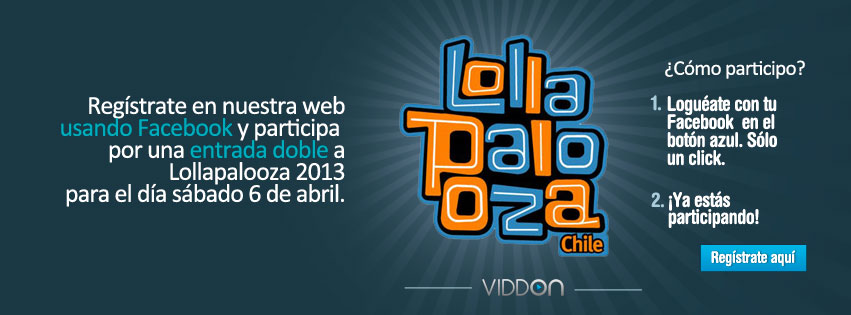
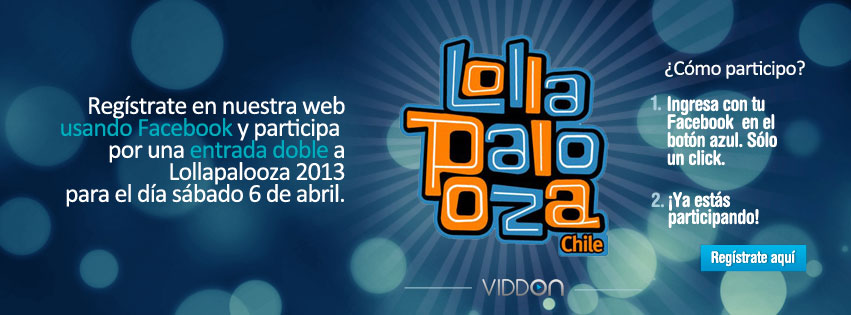
cambios visuales de la barra superior y se cambia la grafica del concurso

diff --git a/style/main.css b/style/main.css
@@ -52,7 +52,7 @@ div.content
 
 /*Estilo del boton superior*/
 #login-button-image {
-	width: 100%;
+	width: 90%;
 	border-radius: 3px;
 }
 
@@ -72,6 +72,8 @@ img.image-logo
 {
 	position: relative;
 	top: -7px;
+	height: 31px !important;
+
 }
 
 

diff --git a/application/views/template.php b/application/views/template.php
@@ -67,12 +67,12 @@
 					</a>
 				</div>
 				<div class="span2 header-text-left">
-					<a href="<?php echo HOME?>/home/what_is" style="margin-left: -55px;" style="color:white;">
+					<a href="<?php echo HOME?>/home/what_is" style="margin-left: -65px;" style="color:white;">
 						Tu Talento, Nuestra Pasi&oacute;n
 					</a>
 				</div>
 				
-				<div class="span4 offset3">
+				<div class="span4 offset4">
 					<?php
 					
 						/*verificacion usuario postulante*/
@@ -113,7 +113,7 @@
 						}
 						else
 						{
-							echo "<div class='span5 offset2'>";
+							echo "<div class='span5'>";
 							echo "<i class='icon-star icon-white'></i>";
 							echo "<a href='".base_url()."home/login_hunter'>&iquestBuscas Talento?</a>";
 							echo "</div>";
@@ -123,9 +123,9 @@
 						if(!$id && !$id_h)
 						{
 							$login_url = HOME."/user/fb_login";
-							echo "<div id='login-button-container' class='span5'>";
+							echo "<div id='login-button-container' class='span6'>";
 							echo "<a href='".$login_url."' id='login-button'>";
-							echo "<img style: id='login-button-image' src='".HOME."/img/fb-login.png' />";
+							echo "<img style='margin-left: 8%;' id='login-button-image' src='".HOME."/img/fb-login.png' />";
 							echo "</a>";
 							echo "</div>";
 						}

diff --git a/application/views/home/home_view.php b/application/views/home/home_view.php
@@ -6,7 +6,7 @@
 		  			
 		  			<div style="margin-left: 5%; margin-top:5%; width: 90%;" >
 		  				<a href="<?php echo base_url().'user/fb_login'; ?>">	
-		  					<img style="height:100%; width:100%;" src="<?php echo HOME."/img/concursoLlolapalooza_modif.jpg" ?>">
+		  					<img style="height:100%; width:100%;" src="<?php echo HOME."/img/concursoLlolapaloozaweb.jpg" ?>">
 		  				</a>
 		  			</div>
 
